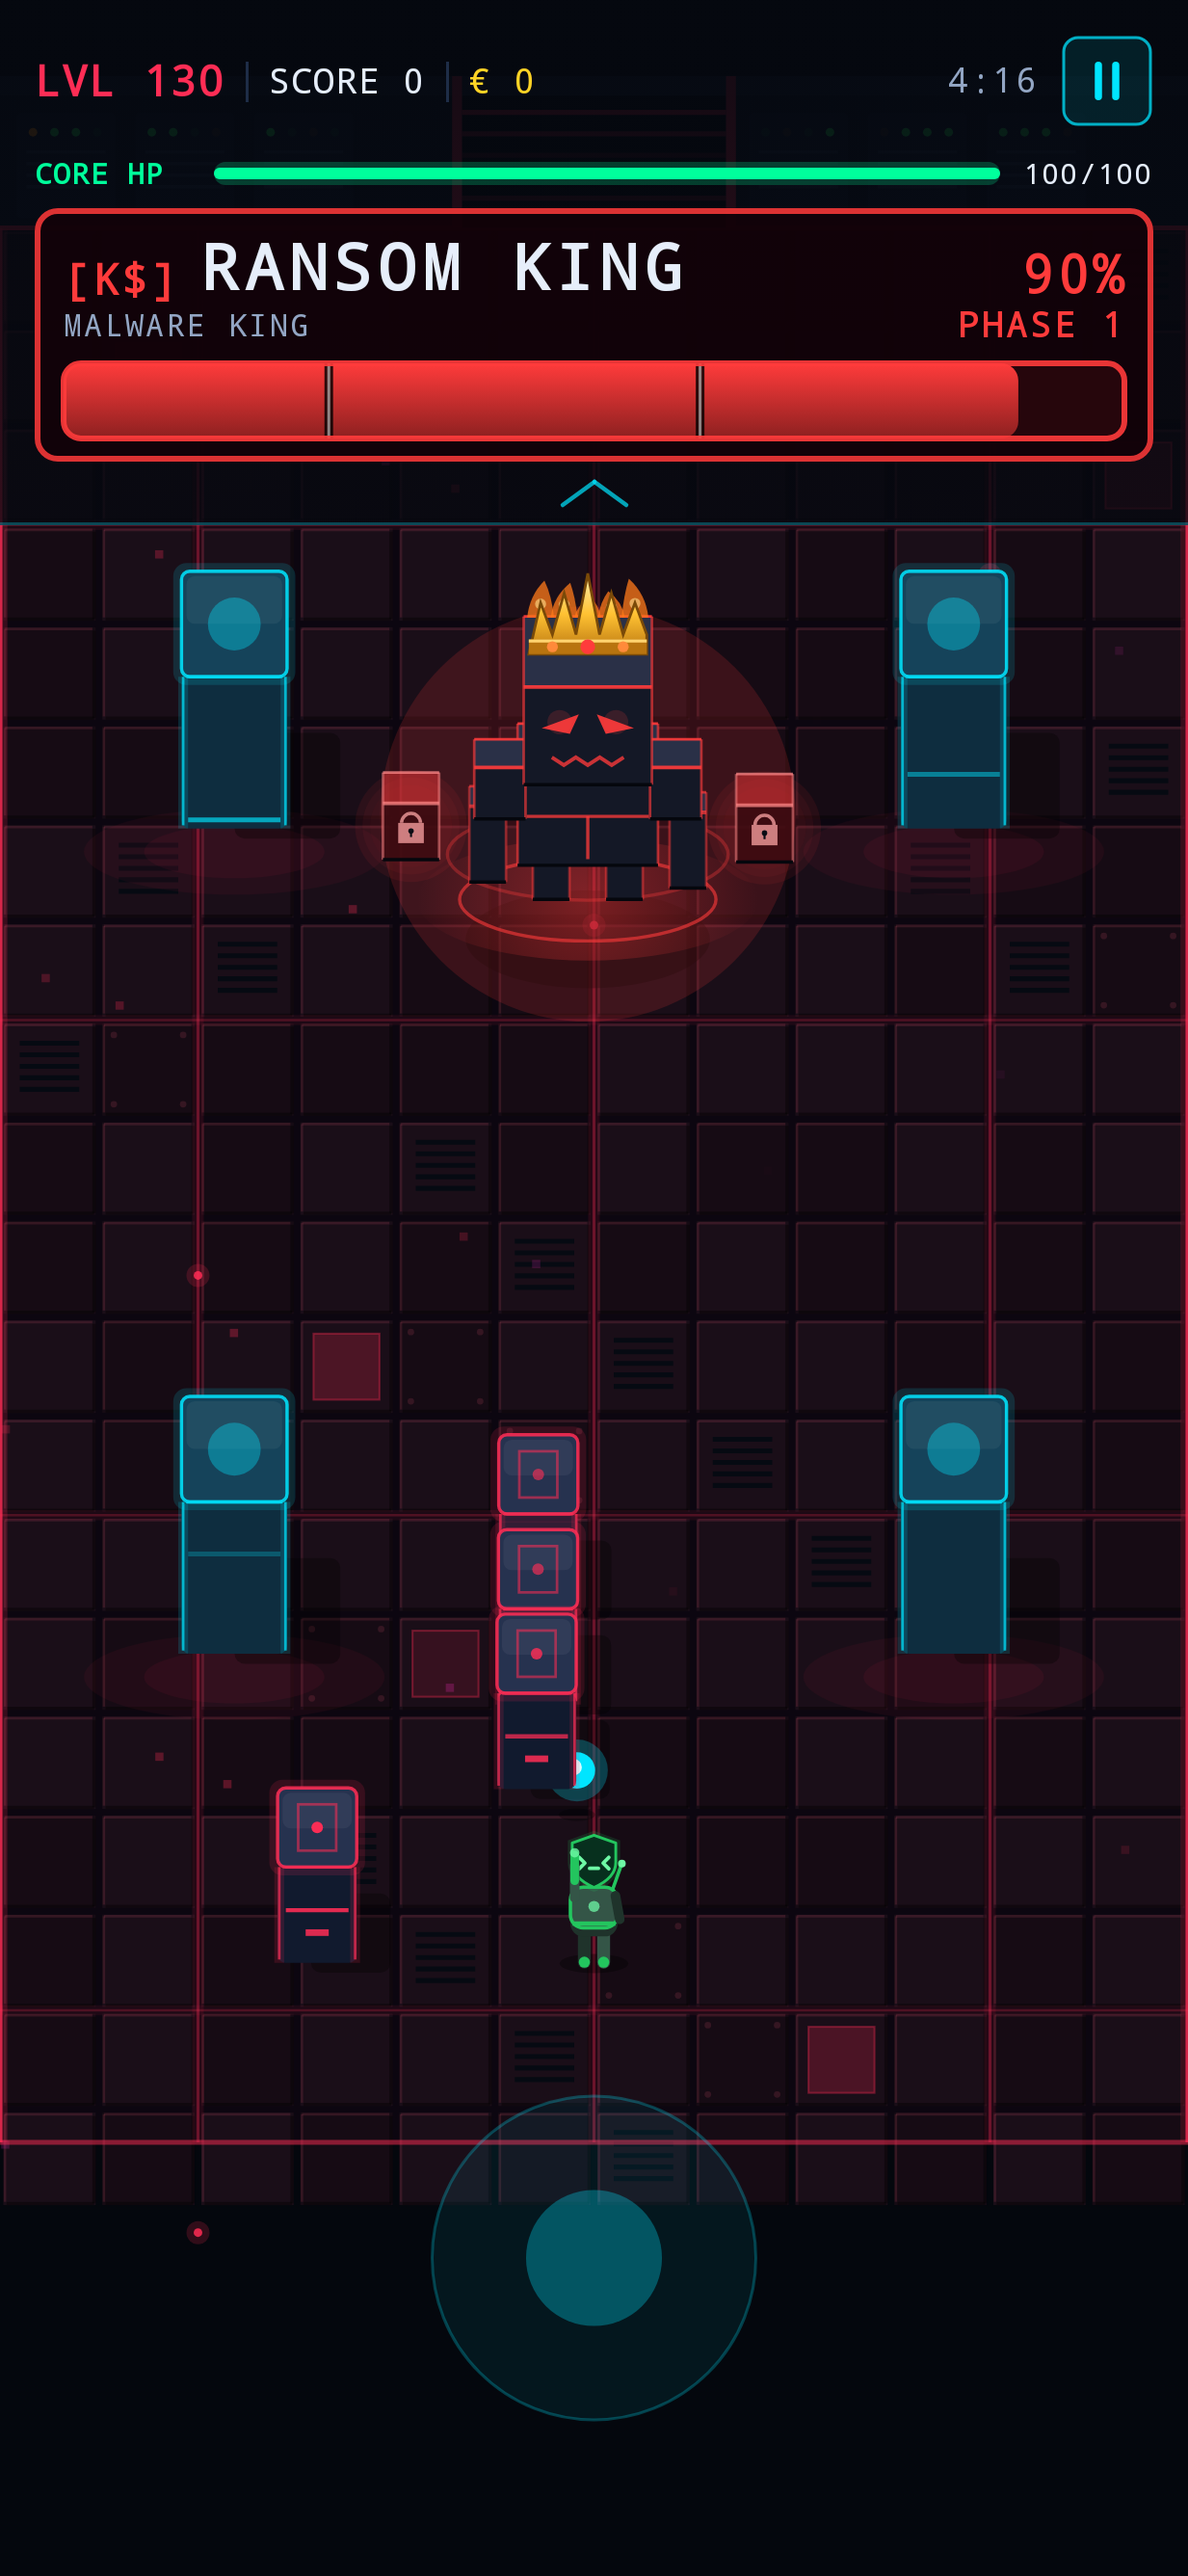
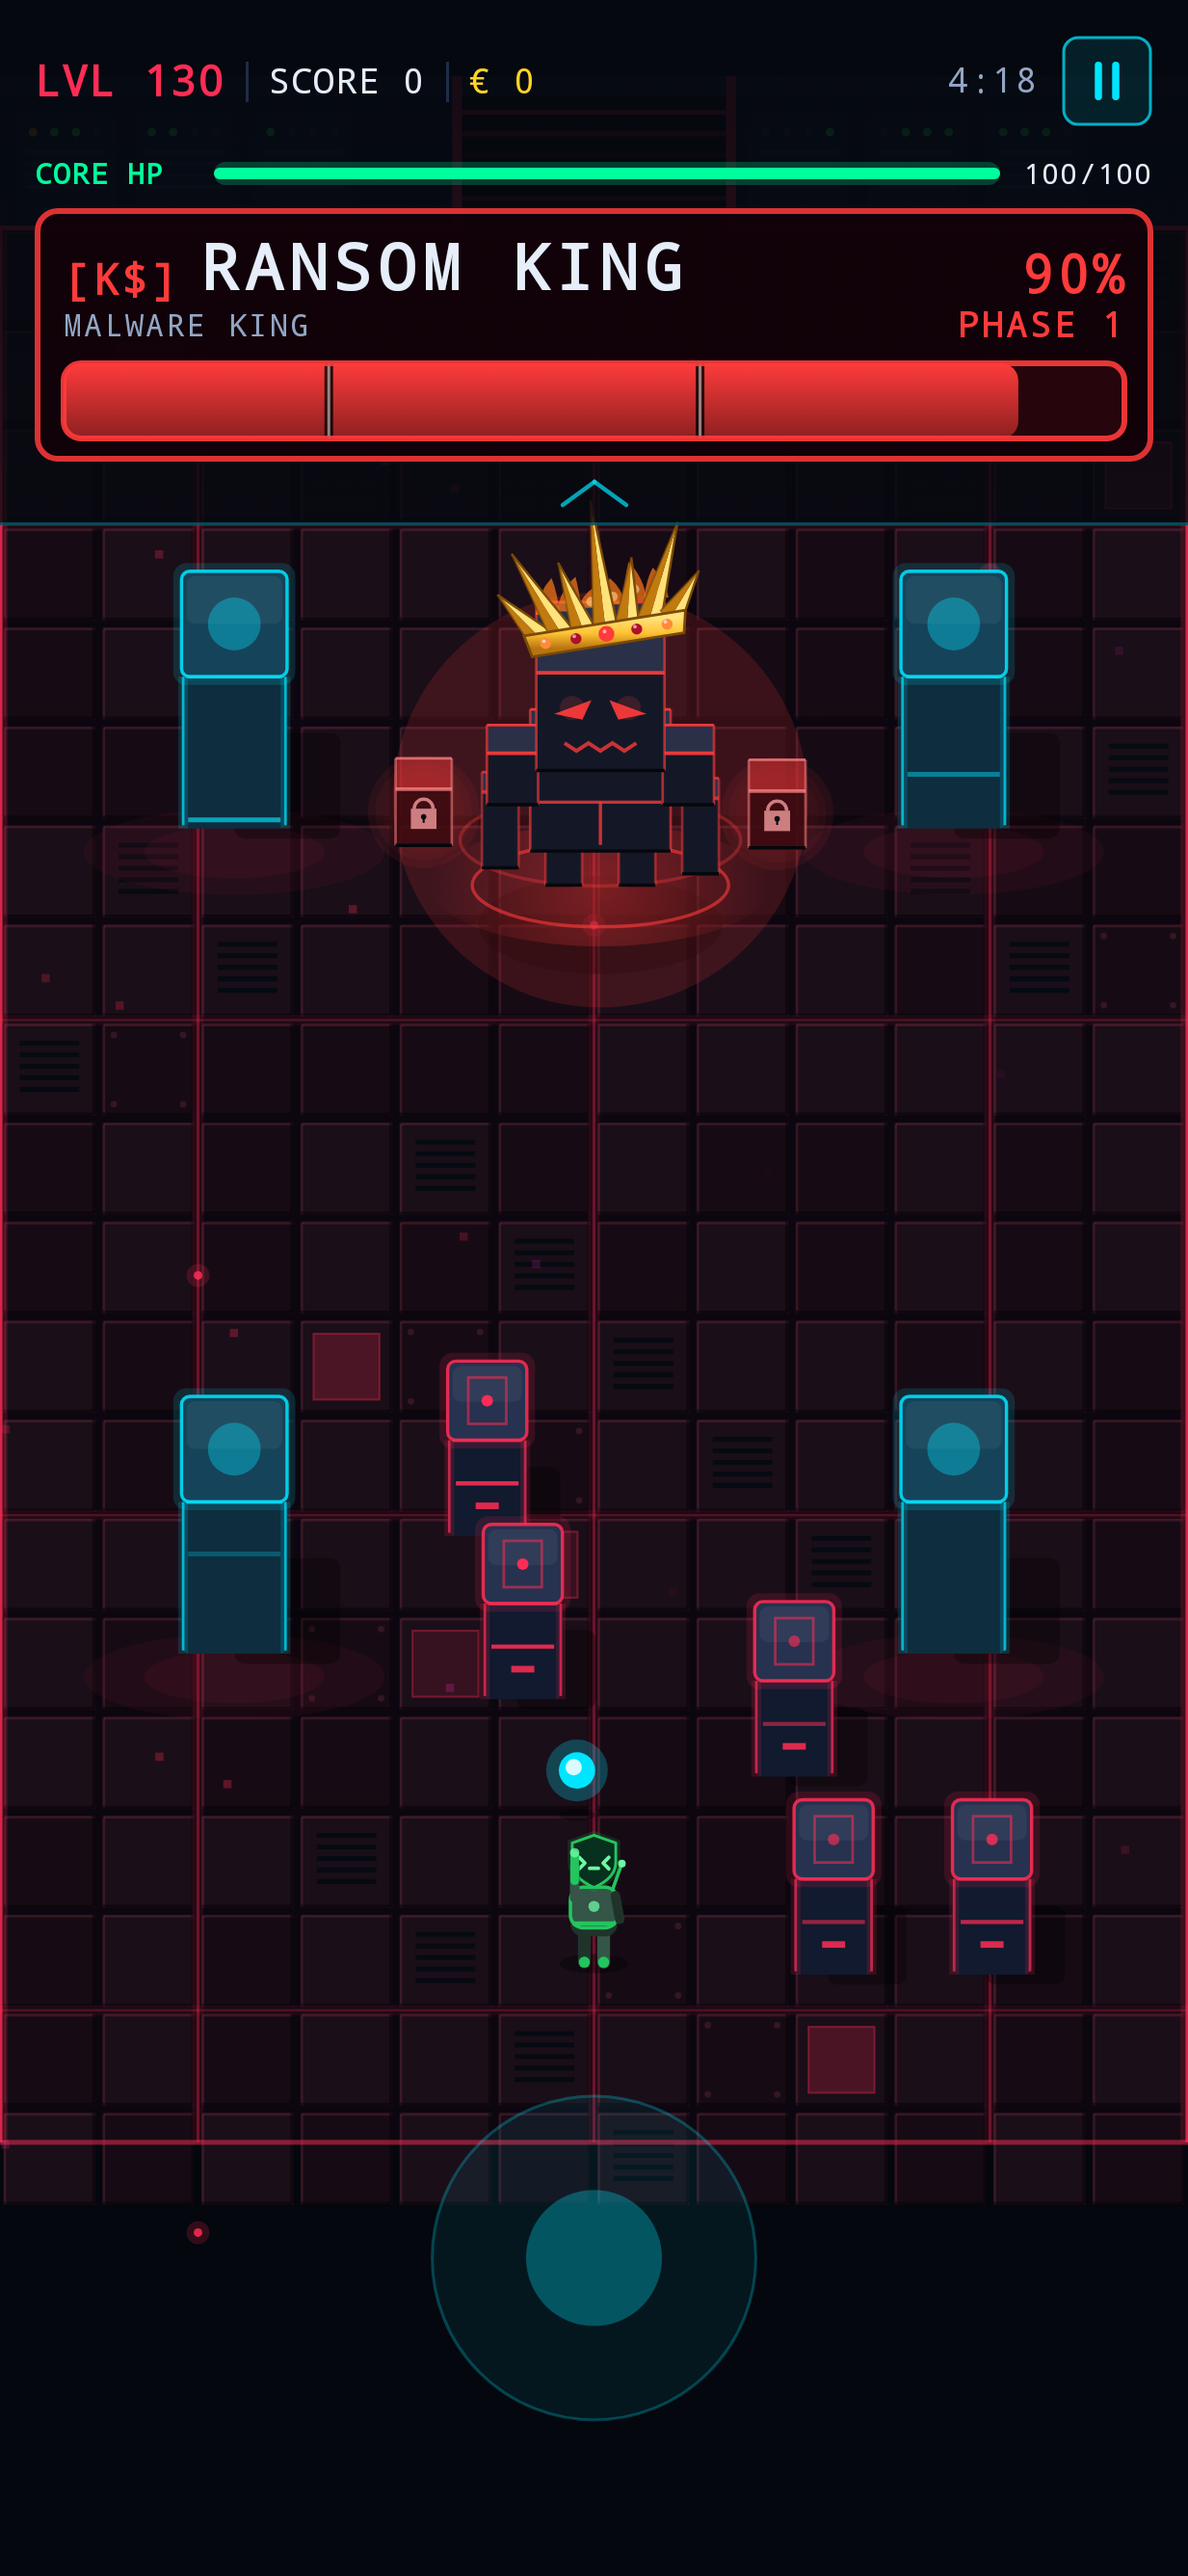
feat: Ransom King revision 2 — bigger, sharper, crooked jutting crown
Claude-Session: https://claude.ai/code/session_01J4fYSi9rfQR62SLnfyrDCN

diff --git a/app/src/main/java/com/cyberoperative/game/ui/game/BossBodyRansomKing.kt b/app/src/main/java/com/cyberoperative/game/ui/game/BossBodyRansomKing.kt
@@ -110,38 +110,54 @@ internal object RansomKingBody : BossBody {
             drawLine(c, Offset(p.cx - r * 0.45f, torsoBase - r * 0.2f), Offset(p.cx - r * 0.25f, torsoBase - r * 0.5f), 1.8f)
         }
 
-        // Crown: gold band with spikes and gems, flames licking above.
-        val crownBase = fy - hw * 0.55f * 0.5f + r * 0.02f
-        val cw = hw * 0.92f
+        // Crown (owner, 2026-10-10: "bigger, sharper, more like jutting out / triangular and
+        // crooked"): a tilted gold band with sharp faceted spikes fanning out at uneven angles,
+        // flames licking up between them.
+        val crownBase = fy - hw * 0.55f * 0.5f + r * 0.04f
+        val cw = hw * 1.2f
+        val tilt = -0.16f + sin(t * 1.2f) * 0.02f
+        val ox = p.cx + r * 0.06f
+        fun rot(dx: Float, dy: Float) = Offset(ox + dx * cos(tilt) - dy * sin(tilt), crownBase + dx * sin(tilt) + dy * cos(tilt))
+        val grow = (1f + 0.12f * p.phase) * (if (hot) 1.1f else 1f)
+        val heights = floatArrayOf(0.5f, 0.78f, 0.6f, 1.05f, 0.55f, 0.85f, 0.45f)
+        val lean = floatArrayOf(-0.62f, -0.4f, -0.2f, 0.04f, 0.22f, 0.44f, 0.7f)
+        val goldLit = if (p.hitFlash) Color.White else Color(0xFFFFE27A)
+        val goldShade = if (p.hitFlash) Color(0xFFDDDDDD) else Color(0xFFC07A0E)
+        // Flames behind the spikes.
         val flameH = r * (0.32f + 0.1f * p.phase) * (if (hot) 1.5f else 1f)
-        for (k in 0 until 5) {
-            val fx = p.cx - cw / 2f + cw * (k + 0.5f) / 5f
+        for (k in 0 until 6) {
+            val base = rot(-cw / 2f + cw * (k + 1f) / 7f, -r * 0.3f)
             val h = flameH * (0.75f + 0.25f * sin(t * 9f + k * 1.7f))
             val flame = Path().apply {
-                moveTo(fx - r * 0.11f, crownBase - r * 0.3f)
-                quadraticTo(fx - r * 0.09f, crownBase - r * 0.3f - h * 0.6f, fx + sin(t * 7f + k) * r * 0.05f, crownBase - r * 0.3f - h)
-                quadraticTo(fx + r * 0.09f, crownBase - r * 0.3f - h * 0.6f, fx + r * 0.11f, crownBase - r * 0.3f)
+                moveTo(base.x - r * 0.1f, base.y)
+                quadraticTo(base.x - r * 0.08f, base.y - h * 0.6f, base.x + sin(t * 7f + k) * r * 0.05f, base.y - h)
+                quadraticTo(base.x + r * 0.08f, base.y - h * 0.6f, base.x + r * 0.1f, base.y)
                 close()
             }
-            drawPath(flame, FLAME.copy(alpha = 0.75f))
-            drawCircle(Color(0xFFFFE08A).copy(alpha = 0.6f), r * 0.045f, Offset(fx, crownBase - r * 0.32f - h * 0.3f))
+            drawPath(flame, FLAME.copy(alpha = 0.7f))
+            drawCircle(Color(0xFFFFE08A).copy(alpha = 0.55f), r * 0.04f, Offset(base.x, base.y - h * 0.3f))
         }
-        if (hot) glow(Offset(p.cx, crownBase - r * 0.25f), cw * 0.42f, GOLD, 0.9f)
-        val crown = Path().apply {
-            moveTo(p.cx - cw / 2f, crownBase)
-            for (k in 0..4) {
-                val x0 = p.cx - cw / 2f + cw * k / 5f
-                lineTo(x0 + cw * 0.1f, crownBase - r * (if (k == 2) 0.66f else if (k == 1 || k == 3) 0.5f else 0.42f))
-                lineTo(x0 + cw * 0.2f, crownBase - r * 0.16f)
-            }
-            lineTo(p.cx + cw / 2f, crownBase)
-            close()
+        if (hot) glow(rot(0f, -r * 0.4f), cw * 0.4f, GOLD, 0.9f)
+        // Spikes: sharp two-tone gold triangles jutting out from the band's top edge.
+        for (k in heights.indices) {
+            val bx = -cw / 2f + cw * (k + 0.5f) / heights.size
+            val b0 = rot(bx, -r * 0.12f)
+            val ang = -1.571f + tilt + lean[k]
+            crystal(b0.x, b0.y, ang, r * heights[k] * grow, r * 0.2f, goldLit, goldShade, Color(0xFF7A4A08))
         }
-        drawPath(crown, Brush.verticalGradient(listOf(Color(0xFFFFF0B0), GOLD, GOLD_DARK), startY = crownBase - r * 0.66f, endY = crownBase))
-        drawPath(crown, Color(0xFF7A4A08), style = Stroke(1.6f))
-        drawRect(GOLD_DARK, Offset(p.cx - cw / 2f, crownBase - r * 0.12f), Size(cw, r * 0.12f))
-        drawRect(lighter(GOLD, 0.3f), Offset(p.cx - cw / 2f, crownBase - r * 0.12f), Size(cw, r * 0.025f))
-        for (k in listOf(-1, 0, 1)) drawCircle(if (k == 0) red else Color(0xFFFF8A3A), r * (if (k == 0) 0.06f else 0.045f), Offset(p.cx + k * cw * 0.3f, crownBase - r * 0.06f))
+        // Band: a skewed gold strip with gems.
+        val band = Path().apply {
+            val a0 = rot(-cw / 2f - r * 0.04f, -r * 0.16f); val a1 = rot(cw / 2f + r * 0.04f, -r * 0.16f)
+            val a2 = rot(cw / 2f, r * 0.02f); val a3 = rot(-cw / 2f, r * 0.02f)
+            moveTo(a0.x, a0.y); lineTo(a1.x, a1.y); lineTo(a2.x, a2.y); lineTo(a3.x, a3.y); close()
+        }
+        drawPath(band, Brush.verticalGradient(listOf(goldLit, GOLD, GOLD_DARK), startY = crownBase - r * 0.2f, endY = crownBase + r * 0.05f))
+        drawPath(band, Color(0xFF7A4A08), style = Stroke(1.6f))
+        for (k in listOf(-2, -1, 0, 1, 2)) {
+            val gc = rot(k * cw * 0.2f, -r * 0.07f)
+            drawCircle(if (k == 0) red else if (k % 2 == 0) Color(0xFFFF8A3A) else Color(0xFFB0102A), r * (if (k == 0) 0.065f else 0.045f), gc)
+            drawCircle(Color.White.copy(alpha = 0.6f), r * 0.015f, Offset(gc.x - r * 0.015f, gc.y - r * 0.02f))
+        }
 
         for (i in 0 until locks) lockCube(i, front = true)
     }

diff --git a/docs/BOSS_EXPANSION_LOG.md b/docs/BOSS_EXPANSION_LOG.md
@@ -232,7 +232,7 @@ CONTROLLER / AREA CONTROL / HUNTER on these four).
 | Vault Sentinel | 2026-10-10 (`docs/bosses/designs/vault_sentinel_*.png`) | ✅ **FINAL**: body (20% larger) and attacks approved — "Vault sentinel looks great thank you." | "Looks great… can it be slightly larger? … show me its attacks … spawn cubes (barrier blocks out of the floor restricting player movement)" |
 | Rootkit Apostle | 2026-10-10 (`docs/bosses/designs/rootkit_apostle_*`) | ✅ **FINAL**: body (rev 2) and attacks approved — "Approved; start on Nullshade Specter" | "Darker body, eye can glow dim to bright back and forth slowly and is bright when attack" |
 | Nullshade Specter | 2026-10-10 (`docs/bosses/designs/nullshade_*`) | ✅ body approved (rev 2, traced from owner reference) — "those look good". Attacks built ("The level should be extremely dark") — ✅ **FINAL**: "Approved; start on Ransom King" | Rev 1 rejected: "Not a fan of that design… trace as best as possible. There shouldn't be an outline really. Think DARKNESS GHOST"; eyes blink + faint light; "Fainter glow around the eyes… sharper"; "bigger eyes please" |
-| Ransom King | 2026-10-10 (`docs/bosses/designs/ransom_king_*`) | ⏳ body waiting | |
+| Ransom King | 2026-10-10 (`docs/bosses/designs/ransom_king_*`) | ⏳ revision 2 sent (bigger crooked crown) | "can the crown be bigger, sharper, and more like jutting out / triangular and crooked?" |
 
 ---
 
@@ -299,3 +299,4 @@ CONTROLLER / AREA CONTROL / HUNTER on these four).
   - Ransom King body drawn and sent: block golem, big cube head with angry eyes and a jagged grin,
     spiked gold crown with flames, padlocked red cubes orbiting (2/3/4 by phase), cracks in P3.
   - Def: slot 9 (L210), LOCKDOWN, HIGH, base €362; provisional patterns; `designed` only.
+- 2026-10-10 — Ransom King revision 2: the crown is 1.2× head width and tilted, with 7 sharp two-tone gold spikes fanning out at uneven heights and angles, a skewed band with gems and flames behind.
